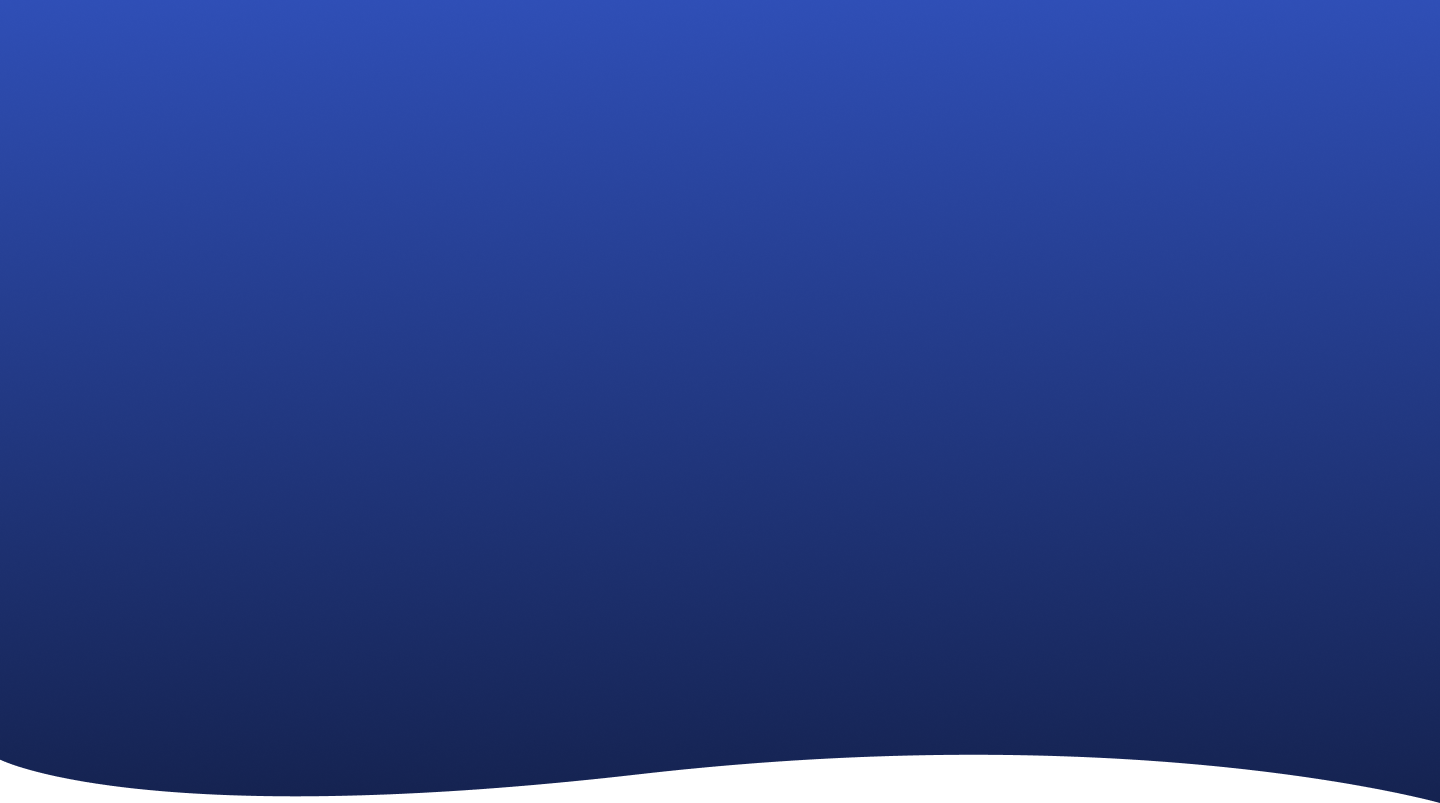
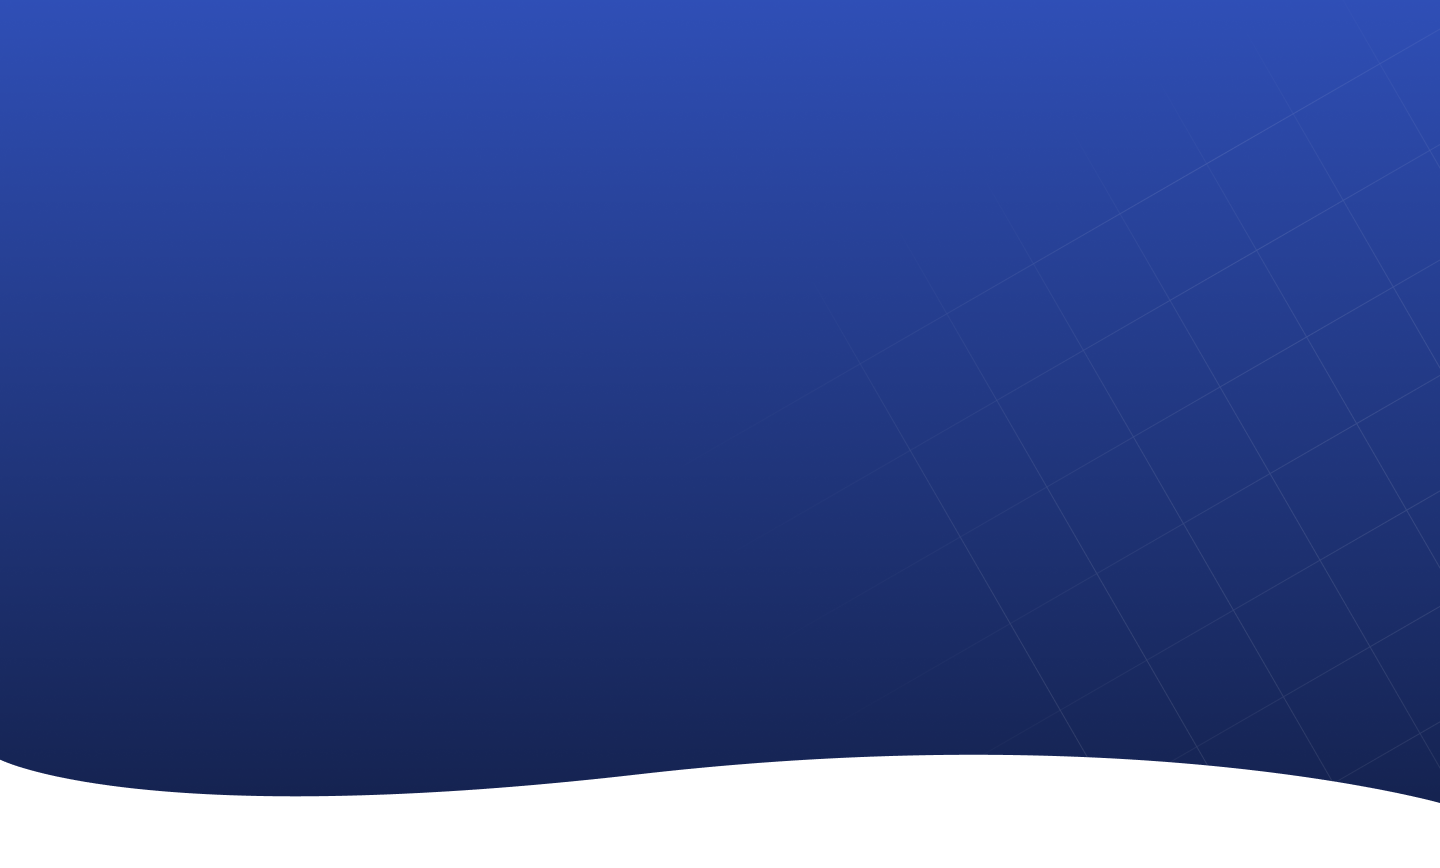
error solve

Changed region(s): [[0.0, 0.8717, 1.0, 1.0]]

diff --git a/index.html b/index.html
@@ -20,9 +20,10 @@
 
 <body>
     <!-- header -->
-    <header class="min-vh-100  d-flex flex-column justify-content-center bg-img ">
-        <nav class="py-16 w-100 mx-auto shadow-blur position-fixed top-0 z-3">
-            <div class="container bg-white navbox  max-w-1240">
+    <header class="min-h-818  flex-column bg-img position-relative">
+        <img class="position-absolute w-100 max-w-1240 h-100" src="./assets/img/png/bg-layer.png" alt="bg-layer">
+        <nav class="w-100 py-4 z-3">
+            <div class="container bg-white navbox max-w-1240">
                 <div class="d-flex align-items-center  justify-content-between w-100">
                     <a href="#" target="_blank">
                         <img src="./assets/img/svg/page-logo.svg" class="page-logo img-fluid" alt="page-logo">
@@ -47,8 +48,7 @@
                             class="font-family-primary d-lg-none z-2 bg-blue fw-semibold fs-6 lh-100p btn text-white"
                             type="button">Join Now</button>
                     </ul>
-                    <button
-                        class="font-family-primary z-2 btn-2 bg-blue  lh-100p fw-semibold fs-6  btn text-white"
+                    <button class="font-family-primary z-2 btn-2 bg-blue  lh-100p fw-semibold fs-6  btn text-white"
                         type="button">Join Now</button>
                     <div onclick="navbarbtn()" class="z-5 d-block d-lg-none cursor-pointer">
                         <span class="menu-lines" id="rotates"></span>
@@ -58,10 +58,9 @@
                 </div>
             </div>
         </nav>
-        <!-- <section class="d-flex flex-grow-1 justify-content-center align-items-center position-relative my-4"> -->
         <div class="container max-w-1240">
-            <div class="row align-items-center">
-                <div class="col-12 col-lg-6 text-center text-lg-start">
+            <div class="row">
+                <div class="col-12 col-lg-6 text-center z-2 pt-102 text-lg-start">
                     <p class="font-family-primary fw-medium fs-6 lh-21 lh-135p color-orange mb-3">SED APP</p>
                     <h1 class="font-family-primary fw-medium text-xl lh-120p color-white mb-4 max-w-570">
                         Where Innovation Fuels Opportunity
@@ -80,7 +79,11 @@
                     </div>
                 </div>
                 <div class="col-12 col-lg-6 position-relative">
-                    <!-- <img class="position-absolute overflow-hidden w-100" src="./assets/img/png/lady-layer.png" alt="layer"> -->
+                    <div class="position-relative mb-4 d-flex justify-content-center">
+                        <img class="position-absolute max-w-452 w-100" src="./assets/img/png/lady-layer.png"
+                            alt="layer">
+                        <img class="lady position-relative z-1" src="./assets/img/png/lady.png" alt="lady">
+                    </div>
                     <div class="bg-white box box-1 z-2 position-absolute">
                         <img class="w-100" src="./assets/img/svg/grow-up.svg" alt="grow-up">
                         <p class="font-family-secondary fs-6 fw-medium color-black-2 lh-100p mt-2 mb-0">Total
@@ -93,7 +96,6 @@
                             Rate</p>
                         <p class="font-family-secondary fw-bold color-voilet text-md lh-100p">35%</p>
                     </div>
-                    <img class="lady position-relative z-1" src="./assets/img/png/lady.png" alt="lady">
                 </div>
             </div>
         </div>
@@ -116,128 +118,134 @@
             <div class="slider-img"><img src="./assets/img/svg/logo-3.svg" alt="icon" class="logo"></div>
             <div class="slider-img"><img src="./assets/img/svg/logo-4.svg" alt="icon" class="logo"></div>
         </div>
-
-        </div>
     </section>
     <!-- download section  -->
     <section class="d-flex justify-content-center align-items-center">
-        <div class="container   text-center mb-120">
+        <div class="container text-center mb-120">
             <div class="blue-box section-bg max-w-1320">
-            <div class="d-flex flex-column align-items-center">
-                <p class="font-family-primary fw-medium fs-6 color-white lh-135p mb-8 mt-80">DOWNLOAD SED APP</p>
-                <h2 class="font-family-primary text-lg color-white lh-120p fw-semibold max-w-598 mb-16">Experience the
-                    Future of
-                    Digital Innovation</h2>
-                <p class="font-family-primary fw-medium fs-5 lh-120p color-white mb-40">Secure. Fast. Global.</p>
-                <div class="d-flex gap-3 flex-wrap justify-content-center mb-80">
-                    <a href="https://www.apple.com/in/app-store/" target="_blank">
-                        <img src="./assets/img/svg/app-store.svg" alt="app-store" class="w-100 store">
-                    </a>
-                    <a href="https://play.google.com/store/games?hl=en" target="_blank">
-                        <img src="./assets/img/svg/google-play.svg" alt="google-play" class="w-100 store">
-                    </a>
+                <div class="d-flex flex-column align-items-center">
+                    <p class="font-family-primary fw-medium fs-6 color-white lh-135p mb-8 mt-80">DOWNLOAD SED APP</p>
+                    <h2 class="font-family-primary text-lg color-white lh-120p fw-semibold max-w-598 mb-16">Experience
+                        the
+                        Future of
+                        Digital Innovation</h2>
+                    <p class="font-family-primary fw-medium fs-5 lh-120p color-white mb-40">Secure. Fast. Global.</p>
+                    <div class="d-flex gap-3 flex-wrap justify-content-center mb-80">
+                        <a href="https://www.apple.com/in/app-store/" target="_blank">
+                            <img src="./assets/img/svg/app-store.svg" alt="app-store" class="w-100 store">
+                        </a>
+                        <a href="https://play.google.com/store/games?hl=en" target="_blank">
+                            <img src="./assets/img/svg/google-play.svg" alt="google-play" class="w-100 store">
+                        </a>
+                    </div>
                 </div>
             </div>
         </div>
     </section>
     <!-- footer -->
     <footer class="color-white-2 mb-0">
-        <div class="container max-w-1140">
+        <div class="container max-w-1140 pt-60">
             <div class="row">
-                <div class="col-lg-5 col-md-6 col-12 text-md-start text-center">
-                    <div class="pt-60">
-                        <a href="#" target="_blank">
-                            <img src="./assets/img/svg/page-logo.svg" class="page-logo" alt="page-logo">
-                        </a>
-                        <p class="font-family-primary fw-normal fs-6 lh-150p color-black opacity-70 mt-16">
-                            SED APP is a decentralized, AI-powered ecosystem driving growth, seamless commerce, and
-                            global connectivity for individuals and businesses.
-                        </p>
-                        <h3 class="font-family-primary fw-normal fs-6 color-black-02 lh-100p mt-24 mb-18">Follow Us On
-                        </h3>
-                        <div class="d-flex gap-3 justify-content-md-start justify-content-center">
-                            <div class="footer-tags social-icon d-flex justify-content-center align-items-center">
-                                <a class="text-decoration-none d-flex justify-content-center align-items-center"
-                                    href="https://in.linkedin.com/" target="_blank">
-                                    <img src="./assets/img/svg/in.svg" alt="linkedin">
-                                </a>
-                            </div>
-                            <div class="footer-tags social-icon d-flex justify-content-center align-items-center">
-                                <a class="text-decoration-none d-flex justify-content-center align-items-center"
-                                    href="https://instagram.com/" target="_blank">
-                                    <img src="./assets/img/svg/insta.svg" alt="insta">
-                                </a>
-                            </div>
-                            <div class="footer-tags social-icon d-flex justify-content-center align-items-center">
-                                <a class="text-decoration-none d-flex justify-content-center align-items-center"
-                                    href="https://facebook.com/" target="_blank">
-                                    <img src="./assets/img/svg/fb.svg" alt="fb">
-                                </a>
-                            </div>
+                <div class="col-lg-5 col-12 mb-5 mb-lg-0">
+                    <a href="#" target="_blank">
+                        <img src="./assets/img/svg/page-logo.svg" class="page-logo" alt="page-logo">
+                    </a>
+                    <p class="font-family-primary fw-normal fs-6 lh-150p color-black opacity-70 mt-16">
+                        SED APP is a decentralized, AI-powered ecosystem driving growth, seamless commerce, and
+                        global connectivity for individuals and businesses.
+                    </p>
+                    <h3 class="font-family-primary fw-normal fs-6 color-black-02 lh-100p mt-24 mb-18">Follow Us On
+                    </h3>
+                    <div class="d-flex gap-3">
+                        <div class="footer-tags social-icon d-flex justify-content-center align-items-center">
+                            <a class="text-decoration-none d-flex justify-content-center align-items-center"
+                                href="https://in.linkedin.com/" target="_blank">
+                                <img src="./assets/img/svg/in.svg" alt="linkedin">
+                            </a>
+                        </div>
+                        <div class="footer-tags social-icon d-flex justify-content-center align-items-center">
+                            <a class="text-decoration-none d-flex justify-content-center align-items-center"
+                                href="https://instagram.com/" target="_blank">
+                                <img src="./assets/img/svg/insta.svg" alt="insta">
+                            </a>
+                        </div>
+                        <div class="footer-tags social-icon d-flex justify-content-center align-items-center">
+                            <a class="text-decoration-none d-flex justify-content-center align-items-center"
+                                href="https://facebook.com/" target="_blank">
+                                <img src="./assets/img/svg/fb.svg" alt="fb">
+                            </a>
                         </div>
                     </div>
                 </div>
-                <div class="col-lg-3 col-md-3 col-6">
-                    <ul class="list-unstyled pt-60">
-                        <li class="text-decoration-none font-family-primary fw-normal fs-6 lh-100p color-black-02">Quick
-                            Links
-                        </li>
-                        <li class="mt-14"><a
-                                class="text-decoration-none font-family-3 fw-normal fs-6 lh-100p color-black-02 opacity-70 footer-links"
-                                href="#">Home</a></li>
-                        <li class="mt-14"><a
-                                class="text-decoration-none font-family-primary fw-normal fs-6 lh-100p color-black-02 opacity-70 footer-links"
-                                href="#">About Us</a></li>
-                        <li class="mt-14"><a
-                                class="text-decoration-none font-family-primary fw-normal fs-6 lh-100p color-black-02 opacity-70 footer-links"
-                                href="#">Why SED</a></li>
-                        <li class="mt-14"><a
-                                class="text-decoration-none font-family-primary fw-normal fs-6 lh-100p color-black-02 opacity-70 footer-links"
-                                href="#">UB Program</a></li>
-                        <li class="mt-14"><a
-                                class="text-decoration-none font-family-primary fw-normal fs-6 lh-100p color-black-02 opacity-70 footer-links"
-                                href="#">Affi. & Influencer Program</a></li>
-                    </ul>
-                </div>
-                <div class="col-lg-2 col-md-3 col-6">
-                    <ul class="list-unstyled pt-60">
-                        <li class="text-decoration-none font-family-primary fw-normal fs-6 lh-100p color-black-02">
-                            Privacy
-                            Policy</li>
-                        <li class="mt-14"><a
-                                class="text-decoration-none font-family-3 fw-normal fs-6 lh-100p color-black-02 opacity-70 footer-links"
-                                href="#">Terms & Conditions</a></li>
-                        <li class="mt-14"><a
-                                class="text-decoration-none font-family-3 fw-normal fs-6 lh-100p color-black-02 opacity-70 footer-links"
-                                href="#">User Guidelines</a></li>
-                        <li class="mt-14"><a
-                                class="text-decoration-none font-family-3 fw-normal fs-6 lh-100p color-black-02 opacity-70 footer-links"
-                                href="#">Cookie Policy</a></li>
-                        <li class="mt-14"><a
-                                class="text-decoration-none font-family-3 fw-normal fs-6 lh-100p color-black-02 opacity-70 footer-links"
-                                href="#">Case Studies</a></li>
-                        <li class="mt-14"><a
-                                class="text-decoration-none font-family-3 fw-normal fs-6 lh-100p color-black-02 opacity-70 footer-links"
-                                href="#">Blog</a></li>
-                    </ul>
-                </div>
-                <div class="col-lg-2 col-md-12 col-12 text-md-start text-center">
-                    <ul class="list-unstyled pt-60">
-                        <li class="text-decoration-none font-family-3 fw-normal fs-6 lh-100p color-black-02">Send
-                            Us An
-                            E-mail</li>
-                        <li class="mt-14"><a
-                                class="text-decoration-none font-family-primary fw-normal fs-6 lh-100p color-black-02 opacity-70 footer-links"
-                                href="#">info@sed.com</a></li>
-                        <li class="mt-14"
-                            class="text-decoration-none font-family-3 fw-normal fs-6 lh-100p color-black-02" href="#">
-                            Address</li>
-                        <li class="mt-14">
-                            <a class="text-decoration-none font-family-primary fw-normal fs-6 lh-100p color-black-02 opacity-70 footer-links"
-                                href="#">123 Innovation Street, <br>Suite 456 <br>Tech City, TX
-                                78901, USA</a>
-                        </li>
-                    </ul>
+                <div class="col-lg-7 col-12">
+                    <div class="row">
+                        <div class="col-lg-4 col-6 mb-4 mb-lg-0">
+                            <ul class="list-unstyled">
+                                <li
+                                    class="text-decoration-none font-family-primary fw-normal fs-6 lh-100p color-black-02">
+                                    Quick
+                                    Links
+                                </li>
+                                <li class="mt-14"><a
+                                        class="text-decoration-none font-family-3 fw-normal fs-6 lh-100p color-black-02 opacity-70 footer-links"
+                                        href="#">Home</a></li>
+                                <li class="mt-14"><a
+                                        class="text-decoration-none font-family-primary fw-normal fs-6 lh-100p color-black-02 opacity-70 footer-links"
+                                        href="#">About Us</a></li>
+                                <li class="mt-14"><a
+                                        class="text-decoration-none font-family-primary fw-normal fs-6 lh-100p color-black-02 opacity-70 footer-links"
+                                        href="#">Why SED</a></li>
+                                <li class="mt-14"><a
+                                        class="text-decoration-none font-family-primary fw-normal fs-6 lh-100p color-black-02 opacity-70 footer-links"
+                                        href="#">UB Program</a></li>
+                                <li class="mt-14"><a
+                                        class="text-decoration-none font-family-primary fw-normal fs-6 lh-100p color-black-02 opacity-70 footer-links"
+                                        href="#">Affi. & Influencer Program</a></li>
+                            </ul>
+                        </div>
+                        <div class="col-lg-4 col-6">
+                            <ul class="list-unstyled">
+                                <li
+                                    class="text-decoration-none font-family-primary fw-normal fs-6 lh-100p color-black-02">
+                                    Privacy
+                                    Policy</li>
+                                <li class="mt-14"><a
+                                        class="text-decoration-none font-family-3 fw-normal fs-6 lh-100p color-black-02 opacity-70 footer-links"
+                                        href="#">Terms & Conditions</a></li>
+                                <li class="mt-14"><a
+                                        class="text-decoration-none font-family-3 fw-normal fs-6 lh-100p color-black-02 opacity-70 footer-links"
+                                        href="#">User Guidelines</a></li>
+                                <li class="mt-14"><a
+                                        class="text-decoration-none font-family-3 fw-normal fs-6 lh-100p color-black-02 opacity-70 footer-links"
+                                        href="#">Cookie Policy</a></li>
+                                <li class="mt-14"><a
+                                        class="text-decoration-none font-family-3 fw-normal fs-6 lh-100p color-black-02 opacity-70 footer-links"
+                                        href="#">Case Studies</a></li>
+                                <li class="mt-14"><a
+                                        class="text-decoration-none font-family-3 fw-normal fs-6 lh-100p color-black-02 opacity-70 footer-links"
+                                        href="#">Blog</a></li>
+                            </ul>
+                        </div>
+                        <div class="col-lg-4 col-12">
+                            <ul class="list-unstyled">
+                                <li class="text-decoration-none font-family-3 fw-normal fs-6 lh-100p color-black-02">
+                                    Send
+                                    Us An
+                                    E-mail</li>
+                                <li class="mt-14"><a
+                                        class="text-decoration-none font-family-primary fw-normal fs-6 lh-100p color-black-02 opacity-70 footer-links"
+                                        href="#">info@sed.com</a></li>
+                                <li
+                                    class="text-decoration-none mt-14 font-family-3 fw-normal fs-6 lh-100p color-black-02">
+                                    Address</li>
+                                <li class="mt-14">
+                                    <a class="text-decoration-none font-family-primary fw-normal fs-6 lh-100p color-black-02 opacity-70 footer-links"
+                                        href="#">123 Innovation Street, <br>Suite 456 <br>Tech City, TX
+                                        78901, USA</a>
+                                </li>
+                            </ul>
+                        </div>
+                    </div>
                 </div>
             </div>
         </div>

diff --git a/assets/css/style.css b/assets/css/style.css
@@ -30,6 +30,10 @@
     max-width: 1240px;
 }
 
+.max-w-452 {
+    max-width: 452px;
+}
+
 .max-w-1140 {
     max-width: 1140px;
 }
@@ -78,12 +82,17 @@
     line-height: 24px;
 }
 
+.min-h-818 {
+    min-height: 891px;
+}
+
+.pt-102 {
+    padding-top: 102px;
+}
+
 .lady {
     width: 100%;
-    max-width: 400px;
-    height: auto;
-    display: block;
-    /* margin-left: 10%; */
+    max-width: 426px;
 }
 
 .navbar-link {
@@ -348,6 +357,12 @@
     border-radius: 50%;
 }
 
+@media (min-width:992px) {
+    .bg-img {
+        background-size: 100% 100%;
+    }
+}
+
 @media (max-width:991.98px) {
     .nav-link {
         display: flex !important;
@@ -379,6 +394,11 @@
     .page-logo {
         max-width: 100px;
     }
+
+    .pt-102 {
+        padding-top: 80px;
+    }
+
 }
 
 @media (max-width:767.98px) {
@@ -415,5 +435,17 @@
     .box-2 {
         bottom: 10%;
         left: 0%;
+    }
+
+    .pt-102 {
+        padding-top: 10px;
+    }
+
+    .mb-120 {
+        margin-bottom: 30px;
+    }
+
+    .mt-60 {
+        margin-top: 20px;
     }
 }

diff --git a/assets/js/index.js b/assets/js/index.js
@@ -6,8 +6,6 @@ const navbarbtn = () => {
     document.getElementById("rotates2").classList.toggle("rotate-45")
     document.body.classList.toggle("overflow-hidden")
 }
-
-
 //------------------------------------------------slider---------------------------------------------
 $('.slider-content').slick({
     dots: false,

diff --git a/assets/css/root.css b/assets/css/root.css
@@ -88,11 +88,6 @@
 @media (max-width:767.98px) {
     :root {
         --text-xl: 32px;
-    }
-}
-
-@media (max-width:575.98px) {
-    :root {
-        --text-xl: 24px;
+        --text-lg: 32px;
     }
 }
